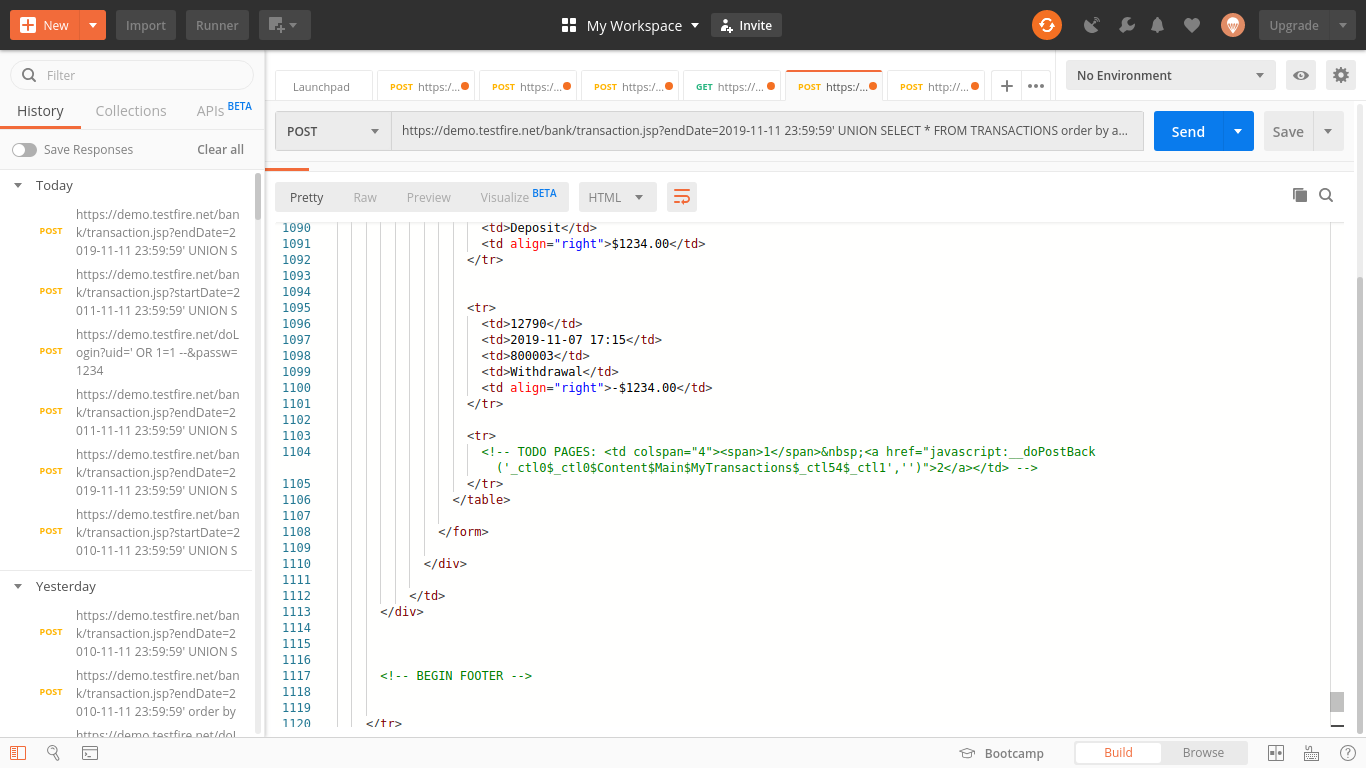
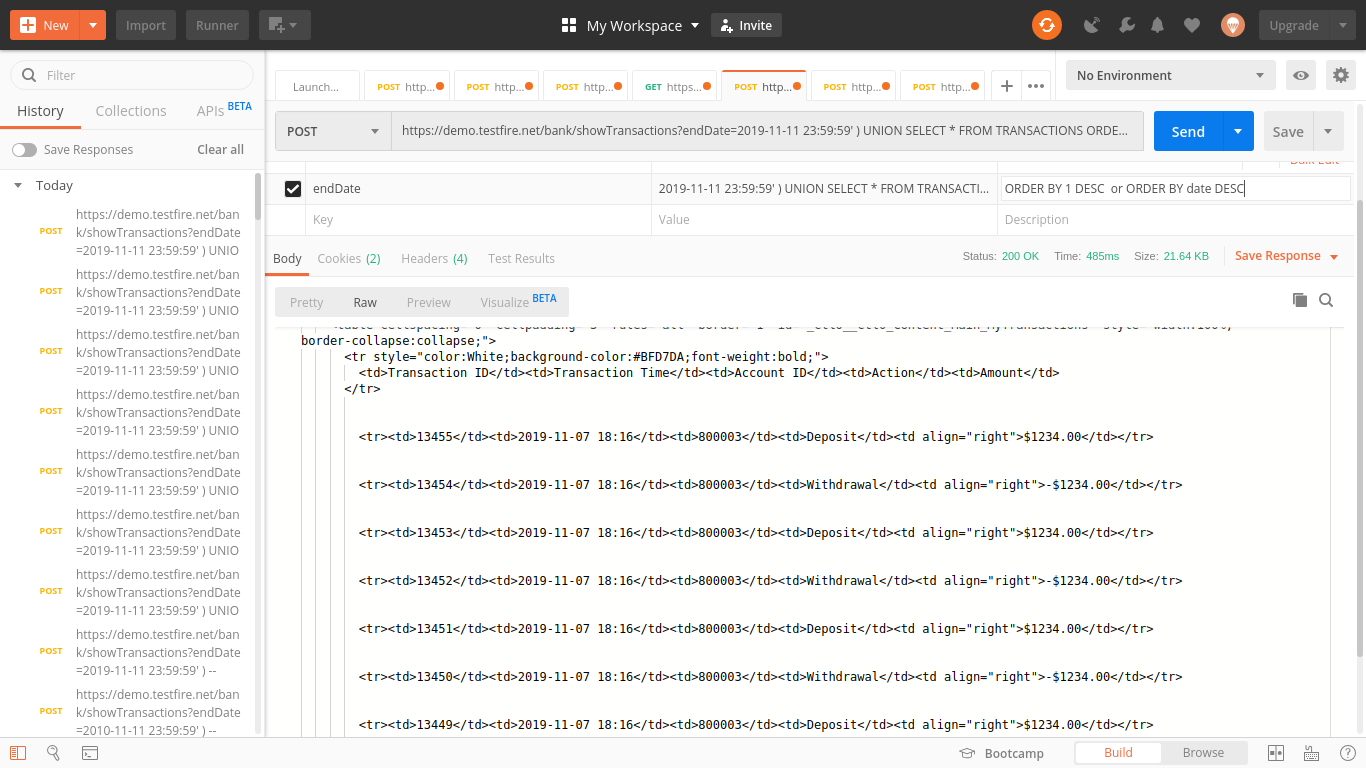
#21 Changes

diff --git a/SqlInjection/doc/altoro_mutual/README.md b/SqlInjection/doc/altoro_mutual/README.md
@@ -42,7 +42,7 @@ It looks exactly like ***Query 1*** without SQL Injection, and it looks like ***
 
 We will use make use of the ***POSTMAN*** application to exploit the SQL Injection vulnerability to fetch all the transactions from all the user.
 
-In order to show all the transaction we can use make of the `UNION` keyword from SQL. It is responsible for fetching all the records by performing union (as second half of any query) with the same table. We are making union of `TRANSACTIONS` table by having two parts of a query by performing the following SQLInjection:  
+In order to show the transaction for all users we can use make of the `UNION` keyword from SQL. It is responsible for fetching all the records by performing union (as second half of any query) with the same table. We are making union of `TRANSACTIONS` table by having two parts of a query by performing the following SQLInjection:  
 `https://demo.testfire.net/bank/transaction.jsp?endDate=2019-11-11 23:59:59' UNION SELECT * FROM TRANSACTIONS order by accountid; --`
 
 Query before SQL Injection the query will look somewhat like this:
@@ -60,14 +60,19 @@ Query after SQL Injection the query will look somewhat like this:
 SELECT * FROM TRANSACTION
 WHERE ...[SOME CONDITION]... AND [date] < '2019-11-11 23:59:59'
 UNION
-SELECT * FROM TRANSACTIONS
+SELECT * FROM TRANSACTIONS ORDER BY 1 DESC -- or > ORDER BY date DESC (show latest records)
 ```
 **``` .........Query 4 ```**
 
-The query (Query 4) from the outcome of SQL Injection with `UNION` keyword will fetch all the records without associating any condition, so the purview of result-set (records from table) in general will be equivalent to the `SELECT * FROM TRANSACTIONS` plus extra records fetched using the first half of the union query (Query 3) that comes before `UNION` keyword.
- 
+The query (Query 4) from the outcome of SQL Injection with `UNION` keyword will fetch all the recend records for all users without associating any condition, so the purview of result-set (records from table) in general will be equivalent to the `SELECT * FROM TRANSACTIONS ORDER BY 1 -- or > ORDER BY date DESC ` plus extra records fetched using the first half of the union query (Query 3) that comes before `UNION` keyword.
+
 Screenshot:
 ![Screenshot](img/SQLInjection_All_Transaction.png)
+
+
+Screenshot (With time difference):
+![Screenshot](img/SQLInjection_All_Transaction_1.png)
+
 
 ***Note***: I checked the [GitHub repository of AltoroJ](https://github.com/hclproducts/AltoroJ/tree/AltoroJ-3.2) to get the table name, but in real life the attacker can only make guess of the table name (in this 'TRANSACTIONS') which can known after performing the few unsuccessful attempts. I would also like to highlight the fact that I was unable to login after creating a user:  
 ![Screenshot](img/SQLInjection_User_Not_Created.png)  
